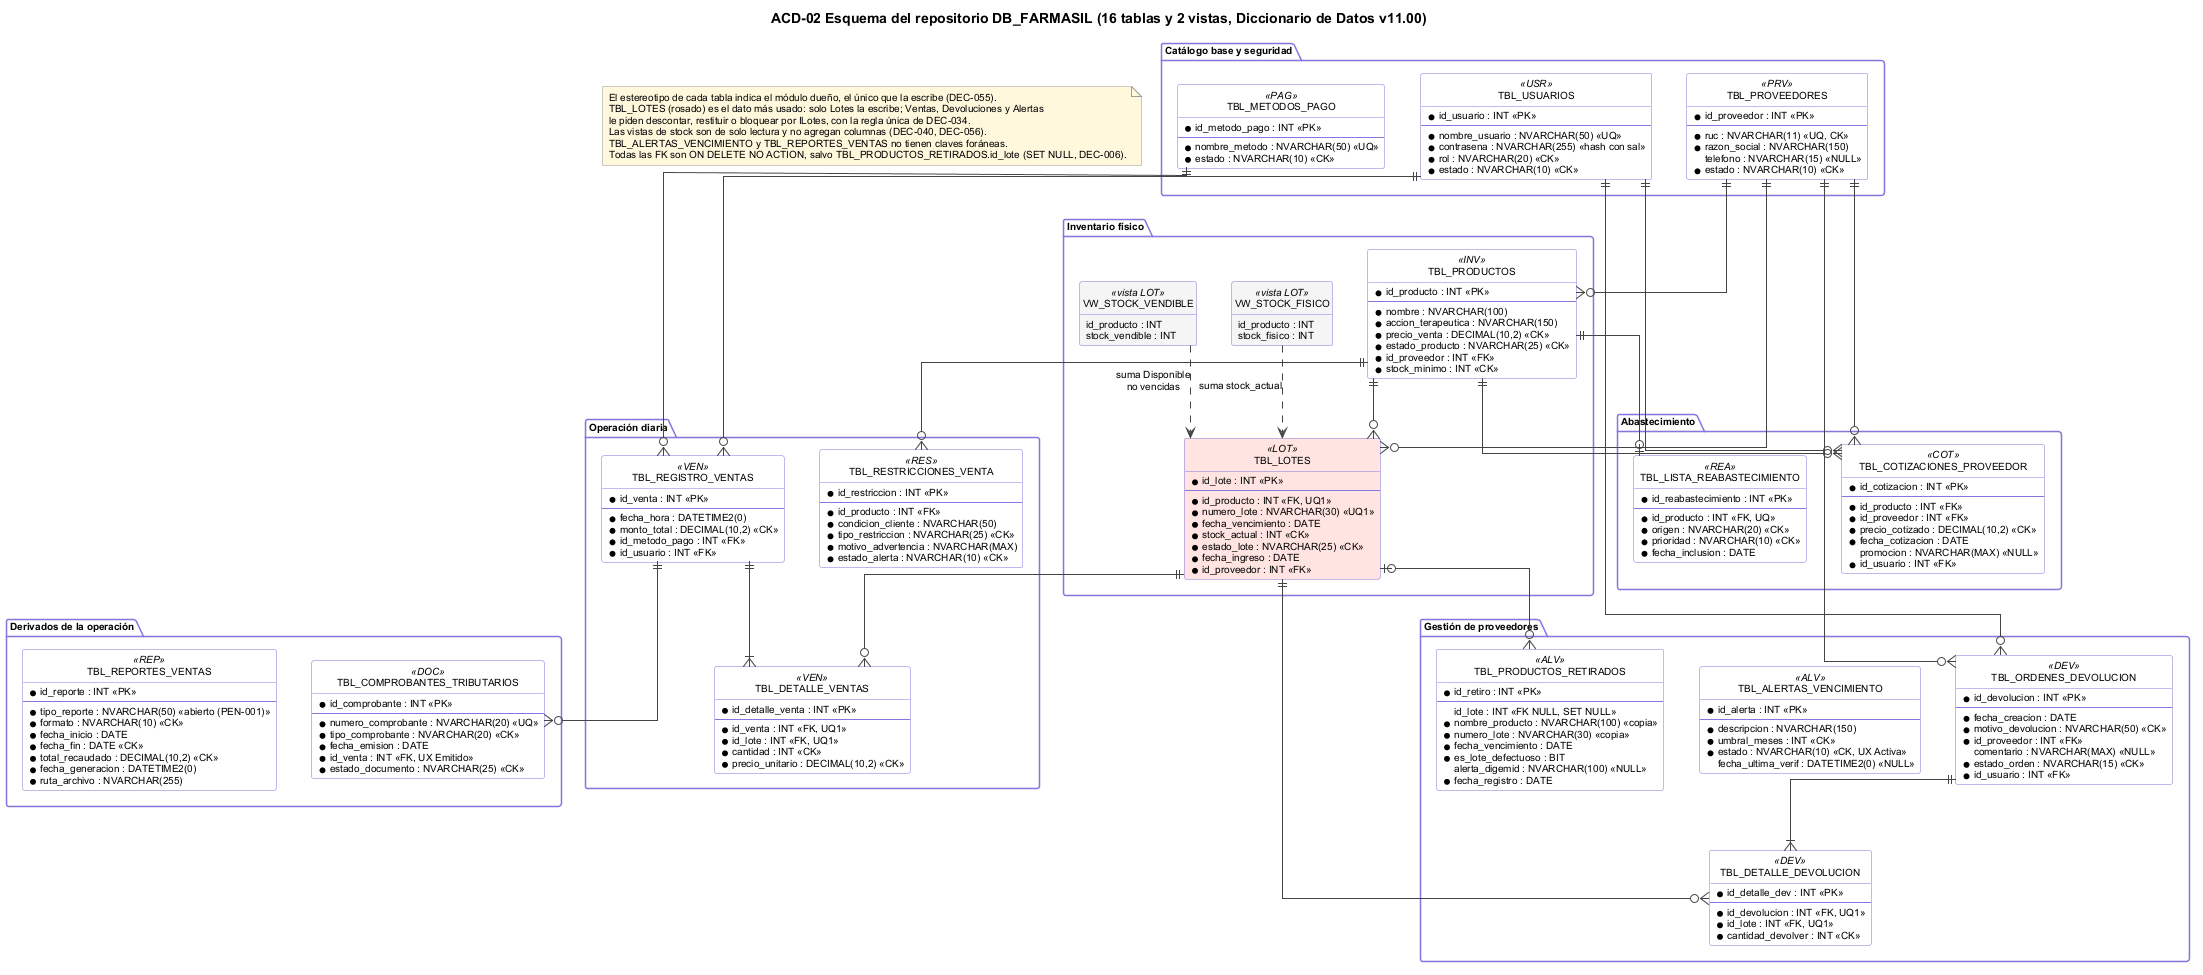
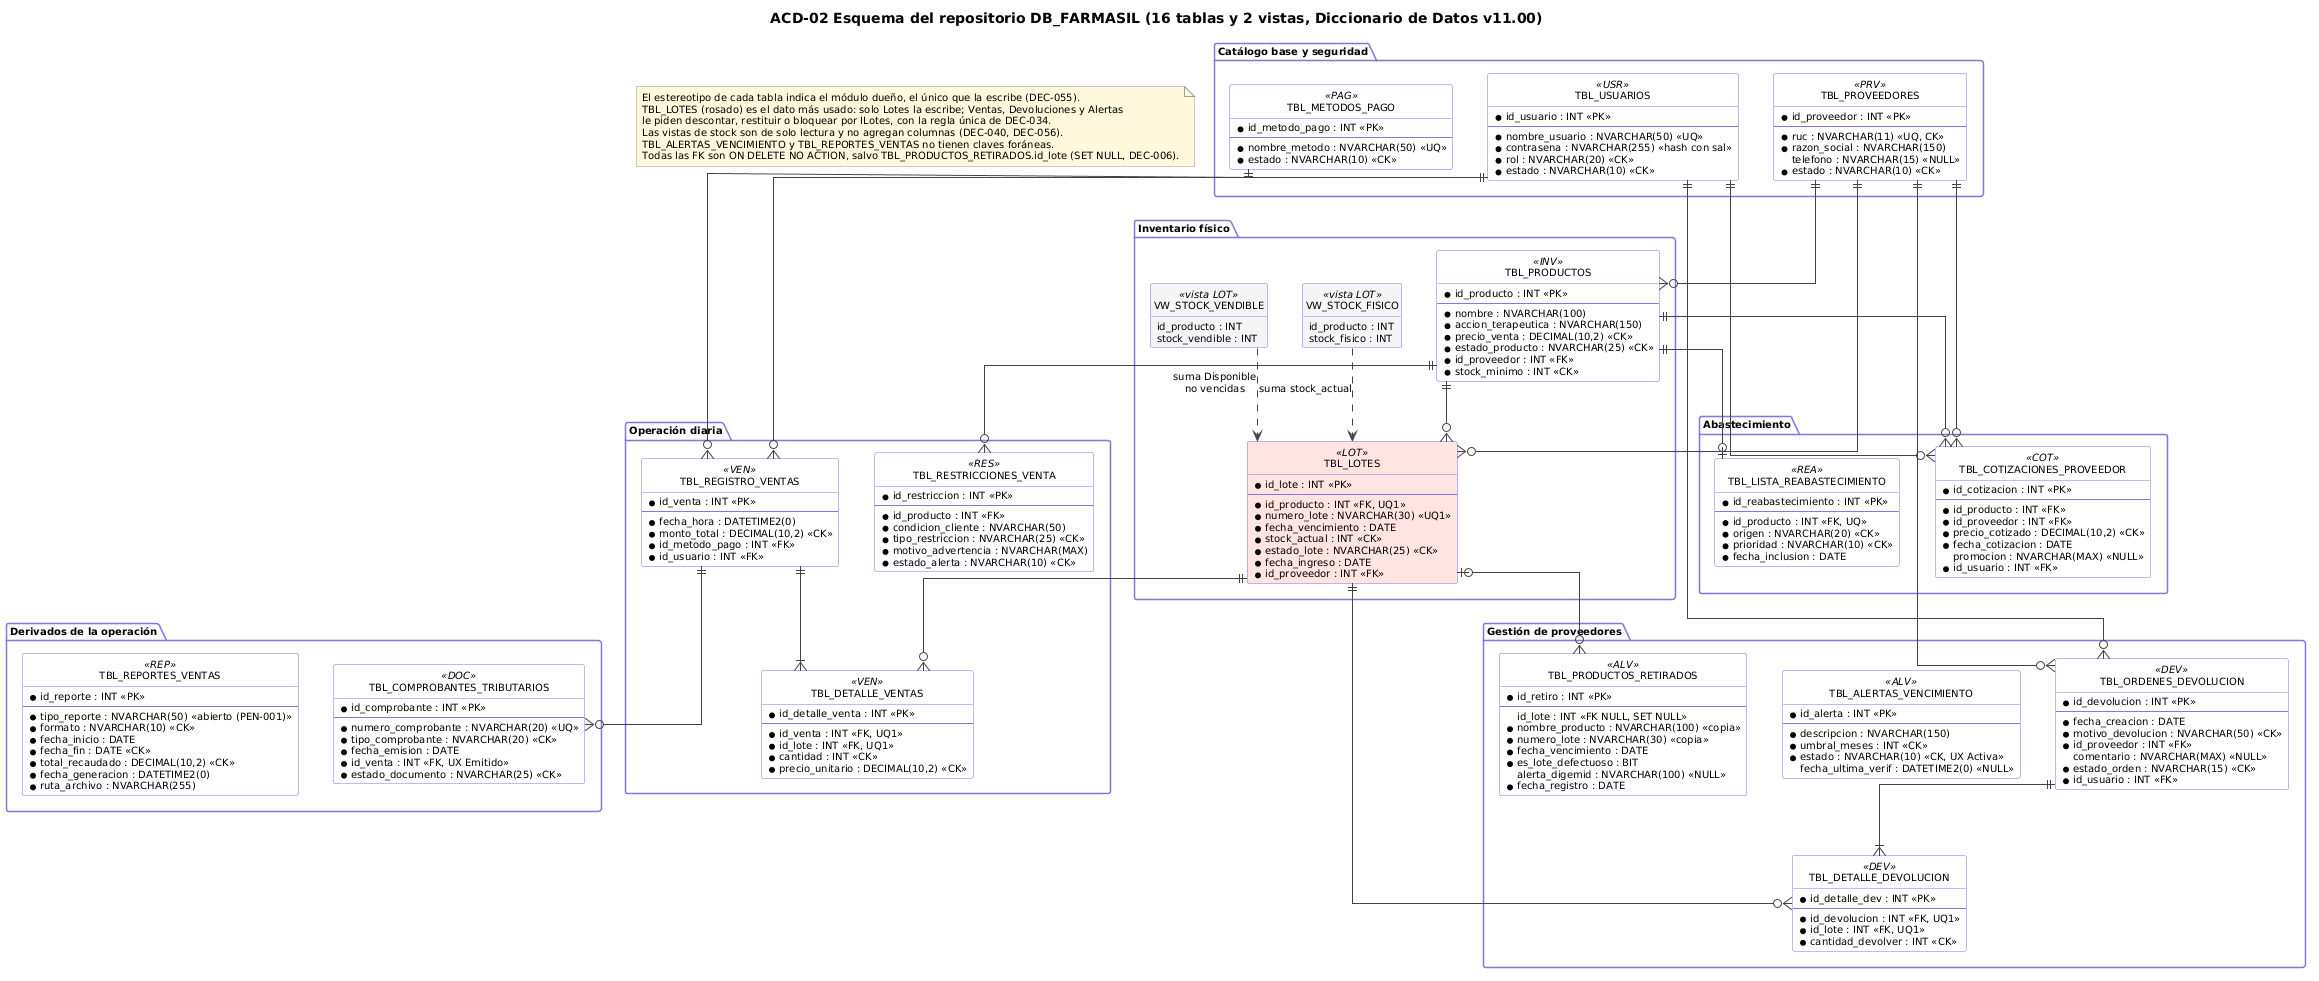
docs(arquitectura): agregar los diagramas de la arquitectura de GUIs y registrar DEC-088 (#202)
* docs(arquitectura): agregar los diagramas de la arquitectura de GUIs y registrar DEC-088

- docs/diagramas/plaintext-GUIS/: fuentes PlantUML de GUI-01 a GUI-06
  (navegación global y roles, composición de la interfaz, diálogo común de
  mantenimiento y las interacciones de Ventas, Comprobantes y Alertas de
  Vencimiento).
- docs/diagramas/GUI-01 a GUI-06 (.png): imágenes generadas desde esas fuentes.
- seguimiento/11-registro-pendientes.md: versión 32.00; se incorpora DEC-088,
  que autoriza el paquete B de seis diagramas de GUIs.
- .gitignore: se excluye la carpeta "Claude outputs/", donde viven los
  artefactos Word que no se versionan.

Refs #52

* docs(acd): regeneracion de los acd01 y acd02 para aumentar calidad grafica Refs #52

diff --git a/seguimiento/11-registro-pendientes.md b/seguimiento/11-registro-pendientes.md
@@ -2,8 +2,8 @@
 
 | Artefacto | Registro de pendientes y decisiones |
 | --- | --- |
-| Versión | 31.00 |
-| Fecha | 25/11/2026 |
+| Versión | 32.00 |
+| Fecha | 27/11/2026 |
 | Responsable | AUT-0001 |
 
 ## Historial de versiones
@@ -34,6 +34,7 @@
 | 29.00 | 24/11/2026 | Issue #89: se incorpora DEC-086 sobre la regla del medicamento descontinuado en el carrito de Ventas, que garantiza `ILotes` según DEC-033, y sobre la nueva verificación de vendibilidad que el #99 hace al confirmar la venta. |
 | 30.00 | 24/11/2026 | Issue #96: se incorpora DEC-083, que aplica los criterios C1 a C4 de DEC-042 a las discrepancias del módulo DEV. |
 | 31.00 | 25/11/2026 | Issue #101 (revisión del PR #198): se incorpora DEC-087, que agrega H5 a la lista cerrada de lecturas de DEC-055: Lotes lee `TBL_PRODUCTOS`. |
+| 32.00 | 27/11/2026 | Issue #52: se incorpora DEC-088: paquete B de seis diagramas de GUIs, sus fuentes PlantUML, imágenes y artefacto Word; se conserva la propuesta v00.01. |
 
 ## 1. Para qué existe y por qué tiene esta forma
 
@@ -210,6 +211,7 @@ Preguntas en el orden en que conviene hacerlas, para salir de la reunión con to
 | DEC-085 | 24/11/2026 | Las observaciones de revisión que no bloquean un PR (defectos latentes, calidad, cobertura, documentos por alinear) se registran como `OBS-NNN` en `seguimiento/16-observaciones-de-revision.md`, al terminar la revisión y antes de fusionar. Se resuelven en la revisión de cierre de cada sprint: se corrigen, pasan a `PEN` si falta una decisión, se asignan a un issue o se descartan con su razón. Un agente de IA lista las observaciones al final de cada revisión y propone sus filas. El documento nace como registro parcial (OBS-001 a OBS-012, de los PR #182, #184, #185, #186 y #187); la auditoría que recoja las de los PR anteriores desde S1 es el issue #190. | Las observaciones se mencionaban solo en el mensaje final de cada revisión y se perdían al fusionar el PR; ni el registro de pendientes ni los hallazgos de uso (`HAL`, solo para lo que se descubre usando la aplicación) les daban lugar. | Leyni | `seguimiento/16-observaciones-de-revision.md`, `AGENTS.md` §7 (copia local, fuera de git), DEC-081, plan §10, issues #190 y #191 |
 | DEC-086 | 24/11/2026 | En el carrito de Ventas (issue #89), la regla del medicamento descontinuado de ESP-0001 la garantiza `ILotes` según DEC-033: `medicamentosVendibles()` y `sugerirFEFO()` nunca devuelven un medicamento descontinuado, porque el predicado de vendibilidad (medicamento y remesa 'Disponible', `stock_actual` > 0 y remesa sin vencer) lo aplica Lotes, que lee el estado del producto por la arista Lotes → Inventario. Ventas no lee Inventario (DEC-044) ni repite la regla. El #99 debe volver a verificar la vendibilidad de cada remesa con `ILotes` al confirmar la venta, porque entre armar el carrito y confirmarlo el medicamento pudo pasar a descontinuado o la remesa a vencer; no basta que `descontar` lo haga, porque Devoluciones también descuenta de remesas en 'Bloqueado por devolucion'. La forma concreta (un campo `EsVendible` calculado por Lotes en `datosRemesas` o una operación aparte) la decide el #99 y la reporta a la instancia maestra. No se registra un PEN. | ESP-0001 manda comprobar `producto.estado_producto`, pero Ventas no tiene la arista hacia Inventario y el catálogo de `ILotes` ya excluye al descontinuado. Dejarlo garantizado por Lotes evita código redundante y una dependencia no permitida, sin perder la regla. | Instancia maestra | ESP-0001, DEC-033, DEC-044, `VentaServicio`, issue #89, issue #99 |
 | DEC-087 | 25/11/2026 | Se agrega H5 a la lista cerrada de lecturas de DEC-055: Lotes lee `TBL_PRODUCTOS` (`id_producto`, `nombre`, `accion_terapeutica`, `precio_venta` y `estado_producto`) con consultas de solo lectura en su Persistencia: para mostrar el nombre del medicamento en la consulta y la ficha de remesas (ESP-0042, ESP-0043), para devolver los datos del medicamento en las lecturas de `ILotes` (`MedicamentosVendibles`, `SugerirFefo`, `DatosRemesas`, `RemesasDevolvibles`, `RemesasPorVencer` y `RemesasDisponibles`) y para aplicar el predicado de vendibilidad de DEC-033 en la misma consulta. Lotes no escribe en `TBL_PRODUCTOS`; las validaciones de sus operaciones siguen usando `IInventario`. Cambia el mecanismo de DEC-057 y DEC-086: el nombre y el estado del producto que obtiene Lotes «por la arista Lotes → Inventario» se leen de la tabla y no por `IInventario`. La arista y su dirección no cambian, y Devoluciones y Ventas siguen sin leer `TBL_PRODUCTOS`. | ESP-0042 ya pide la unión con `TBL_PRODUCTOS`, y el predicado de DEC-033 necesita el estado del producto en la misma consulta que filtra las remesas; obtenerlo por `IInventario` obligaría a filtrar en memoria. La lectura sigue la arista existente Lotes → Inventario, así que no crea dependencias nuevas ni ciclos. Surgió en la revisión del PR #198. | Leyni | DEC-055, DEC-033, DEC-057, DEC-086, ESP-0042, issue #101, `Contexto_Arquitectura_FARMASIL_ParaAgentesIA.md` §5.10 |
+| DEC-088 | 27/11/2026 | Se autoriza elaborar el paquete B de seis diagramas de GUIs: navegación global y roles (GUI-01), composición de la interfaz (GUI-02), diálogo común de mantenimiento (GUI-03), Ventas (GUI-04), Comprobantes (GUI-05) y Alertas de Vencimiento (GUI-06). Se conservan las fuentes en `docs/diagramas/plaintext-GUIS/`, los PNG en `docs/diagramas/` y un nuevo artefacto v01.00 en `Claude outputs`, con figuras y código completo. La propuesta v00.01 se conserva. GUI-01/02 usan una convención documentada de navegación y contención; GUI-03 a GUI-06, estados de interacción UML. Se mantiene una pantalla por módulo, los permisos y los identificadores vigentes. | La usuaria aprueba pasar de las propuestas a los diagramas y solicita expresamente código, imágenes e incorporación al documento. El paquete cubre la navegación y composición de los trece módulos y profundiza tres interacciones; los candidatos GUI-07 a GUI-09 no se elaboran en esta entrega. | Leyni | Issue #52; aprobación en la conversación; propuesta GUIs v00.01; RNF-0006; guía de nomenclatura; matriz de permisos; ESP; DEC-042, DEC-046, DEC-075, DEC-080 |
 
 ## 6. Cuestiones cerradas
 
